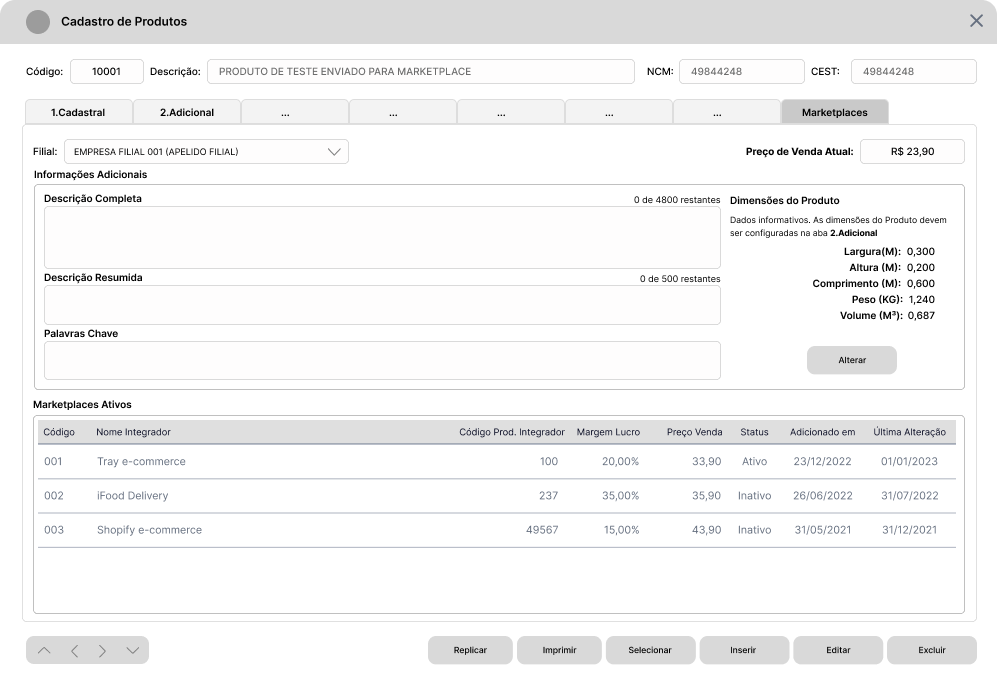
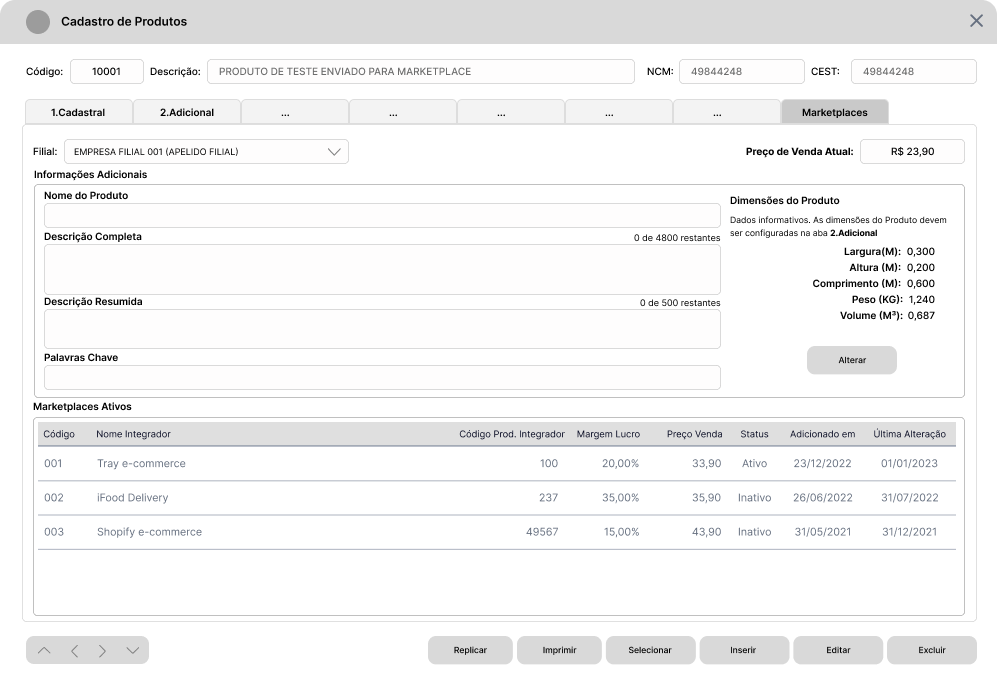
Alterações

diff --git a/Marketplaces.md b/Marketplaces.md
@@ -4,6 +4,12 @@ O presente documento objetiva descrever os requisitos básicos para implementaç
 
 ![Integração Tray](./Integration02.png)
 
+# Histórico de Mudanças de Escopo
+
+- 23.02.2023 - Kits não devem ser mais aceitos para envio ao Marketplace
+- 03.03.2023 - Suspensão do Envio de Categorias de Produtos. Um método de gerenciamento das categorias será levantado e posteriormente criado.
+- 06.03.2023 - Inclusão do campo Nome do Produto na Guia Marketplaces do Cadastro de Produtos para comportar a "descrição" ou "nome do produto" definido no Marketplace na fase de Implantação.
+
 # Roadmap :rocket:
 
 1. Implementar [Parâmetros](#parâmetros) Gerais e Específicos.
@@ -28,19 +34,19 @@ Na Tela Principal de Parâmetros do Sistema Ganso, criar uma aba **Integrações
 
 ### Parâmetros Específicos para Integrador Tray
 
-| Parâmetro           | Pai                                   | Descritivo                                                                                                                                             | Regra de Negócio                                                                                                    |
-| :------------------ | :------------------------------------ | :----------------------------------------------------------------------------------------------------------------------------------------------------- | :------------------------------------------------------------------------------------------------------------------ |
-| Autenticação        | Aba Integrações / Marketplaces / Tray | Grupo de Parâmetros para autenticação e-commerce                                                                                                       | Informações requeridas pelo Integrador Tray.                                                                        |
-| Código da Loja      | Grupo Autenticação                    | ID da Loja na Tray                                                                                                                                     | Informar o Código da Loja fornecido pela Tray.                                                                      |
-| URL de Autenticação | Grupo Autenticação                    | URL                                                                                                                                                    | Até 255 caracteres, inicialmente.                                                                                   |
-| Consumer Key        | Grupo Autenticação                    | Chave de Acesso requerida para geração do Código do Aplicativo                                                                                         | Até 255 caracteres, inicialmente.                                                                                   |
-| Consumer Secret     | Grupo Autenticação                    | Chave de Acesso requerida para geração do Código do Aplicativo                                                                                         | Até 255 caracteres, inicialmente.                                                                                   |
-| Code                | Grupo Autenticação                    | Código de Acesso do Aplicativo gerado através da Plataforma Tray                                                                                       | Até 255 caracteres, inicialmente.                                                                                   |
-| Categorias          | Aba Integrações / Marketplaces / Tray | Grupo de Parâmetros específicos para definir as Categorias do e-commerce                                                                               | Informação requerida pelo Integrador Tray.                                                                          |
-| Definir Categorias  | Categorias                            | Parâmetro para Usuário definir um Cadastro do Sistema Ganso que deve alimentar o Cadastro de **"Categorias"** da Plataforma Tray \*                    | Permitir utilizar um dos Cadastros de **Ambiente de Utilização, Seção, Grupo ou Subgrupo**                          |
-| Plano Contratado    | Aba Integrações / Marketplaces / Tray | Parâmetro para definir o Plano Contratado pelo Usuário na Plataforma Tray, correspondente ao Limite de Produtos que podem ser enviados ao Marketplace. | Utilizar uma Caixa de Combinação que lista os Planos obtidos diretamente na API da Tray, e armazenar em uma tabela. |
+| Parâmetro              | Pai                                       | Descritivo                                                                                                                                             | Regra de Negócio                                                                                                    |
+| :--------------------- | :---------------------------------------- | :----------------------------------------------------------------------------------------------------------------------------------------------------- | :------------------------------------------------------------------------------------------------------------------ |
+| Autenticação           | Aba Integrações / Marketplaces / Tray     | Grupo de Parâmetros para autenticação e-commerce                                                                                                       | Informações requeridas pelo Integrador Tray.                                                                        |
+| Código da Loja         | Grupo Autenticação                        | ID da Loja na Tray                                                                                                                                     | Informar o Código da Loja fornecido pela Tray.                                                                      |
+| URL de Autenticação    | Grupo Autenticação                        | URL                                                                                                                                                    | Até 255 caracteres, inicialmente.                                                                                   |
+| Consumer Key           | Grupo Autenticação                        | Chave de Acesso requerida para geração do Código do Aplicativo                                                                                         | Até 255 caracteres, inicialmente.                                                                                   |
+| Consumer Secret        | Grupo Autenticação                        | Chave de Acesso requerida para geração do Código do Aplicativo                                                                                         | Até 255 caracteres, inicialmente.                                                                                   |
+| Code                   | Grupo Autenticação                        | Código de Acesso do Aplicativo gerado através da Plataforma Tray                                                                                       | Até 255 caracteres, inicialmente.                                                                                   |
+| ~~Categorias~~         | ~~Aba Integrações / Marketplaces / Tray~~ | ~~Grupo de Parâmetros específicos para definir as Categorias do e-commerce~~                                                                           | ~~Informação requerida pelo Integrador Tray.~~                                                                      |
+| ~~Definir Categorias~~ | ~~Categorias~~                            | ~~Parâmetro para Usuário definir um Cadastro do Sistema Ganso que deve alimentar o Cadastro de **"Categorias"** da Plataforma Tray \*~~                | ~~Permitir utilizar um dos Cadastros de **Ambiente de Utilização, Seção, Grupo ou Subgrupo**~~                      |
+| Plano Contratado       | Aba Integrações / Marketplaces / Tray     | Parâmetro para definir o Plano Contratado pelo Usuário na Plataforma Tray, correspondente ao Limite de Produtos que podem ser enviados ao Marketplace. | Utilizar uma Caixa de Combinação que lista os Planos obtidos diretamente na API da Tray, e armazenar em uma tabela. |
 
-> :bulb: Nota: É estritamente importante relacionar o ID da Categoria Cadastrada na API de Categorias com o ID do Cadastro enviado como Categoria no Parâmetro definir Categorias. Este processo é importante para que o Produto tenha o ID correto durante o Envio Cadastral.
+> :bulb: ~~Nota: É estritamente importante relacionar o ID da Categoria Cadastrada na API de Categorias com o ID do Cadastro enviado como Categoria no Parâmetro definir Categorias. Este processo é importante para que o Produto tenha o ID correto durante o Envio Cadastral.~~
 
 Após implementações dos Parâmetros Gerais e Específicos, os elementos descritos podem ser organizados conforme o exemplo a seguir.
 
@@ -62,6 +68,7 @@ Na Tela Principal do **Cadastro de Produtos**, criar uma Aba para organizar camp
 | Campo               | Aba Marketplaces       | Preço de Venda Atual                  | Campo exibir como informativo o Preço de Venda Atual.                                                                                                                                                                                                                                                                                             |
 | Grid                | Aba Marketplaces       | Marketplaces do Produto               | Grid para exibir em quais Marketplaces o Produto está incluído. É importante exibir as informações de Código da Integração, Nome do Integrador, Código do Produto no Integrador, Margem de Lucro, Preço de Venda, Status do Marketplace, Data de Adição do Produto e Data de Última Alteração.                                                    |
 | Grupo               | Aba Marketplaces       | Informações Adicionais                | Grupo de Informações Adicionais do Produto para o Marketplace.                                                                                                                                                                                                                                                                                    |
+| Campo               | Informações Adicionais | **Nome do Produto no Marketplace**    | Campo para informar o Nome do Produto a exibir no Marketplace. Este campo também será utilizado para importar o Nome do Produto na fase de **Implantação da Integração** no Cliente, e possuir Marketplace em funcionamento antes da Ativação da Integração no Sistema Ganso.                                                                     |
 | Campo               | Informações Adicionais | Descrição detalhada do Produto        | Campo para informar uma descrição detalhada do Produto, específica para Marketplaces. Incluir um "contador de caracteres" para informar ao usuário quantos ainda restam do limite total. Ex.: 3650 restantes.                                                                                                                                     |
 | Campo               | Informações Adicionais | Descrição Resumida do Produto         | Campo para informar uma descrição Resumida do Produto, específica para Marketplaces. Incluir um "contador de caracteres" para informar ao usuário quantos ainda restam do limite total. Ex.: 300 restantes.                                                                                                                                       |
 | Campo               | Informações Adicionais | _Keywords_ ou Palavras Chave de Busca | Campo para definir quais são as palavras chave de busca para o Produto na plataforma do Marketplace. Verificar possibilidade de definir um padrão de preenchimento.                                                                                                                                                                               |
@@ -333,12 +340,12 @@ Abaixo desta _Grid_ de Dados, no rodapé da tela, incluir legenda para as açõe
 
 Durante análise da Integração possíveis automatismos foram levantandos para melhor Gestão do Recurso. Inicialmente, tem-se as seguintes automatizações.
 
-| #   | Descritivo                                  | Condições                                                                                                                                                                                                                                                                                                                                                                                                                                                                                                      |
-| :-- | :------------------------------------------ | :------------------------------------------------------------------------------------------------------------------------------------------------------------------------------------------------------------------------------------------------------------------------------------------------------------------------------------------------------------------------------------------------------------------------------------------------------------------------------------------------------------- |
-| A01 | Inclusão de Produto na Lista do Marketplace | Se Usuário Cadastrar um Novo Produto e a Integração com Marketplace está ativada, sugerir inclusão do mesmo na Lista dos Marketplaces ativos através do Próprio Cadastro de Produtos. Sugerir apenas se houver um Preço de Venda maior que zero informado no Cadastro e se o Limite definido no [Parâmetro](#parâmetros-específicos-para-integrador-tray) "Plano Contrato" não foi ultrapassado.                                                                                                               |
-| A02 | Atualização de Preço de Venda               | Se Usuário atualizar o Preço de Venda de um Produto que está contido na Lista do Marketplace, atualizar o Preço de Venda **obedecendo a Margem de Lucro aplicada ao Produto**. Se **Promoção Ativa** verificar o tipo de Preço: <br> - Se Fixo, manter o Preço considerando a margem de lucro. <br>- Se Percentual, recalular o Preço de Promoção obedecendo a Margem de Lucro e Percentual de Desconto definido na Promoção. <br> Avaliar [Regra de Negócio Geral RN04 e RN06](#regras-de-negócio-geral-lock) |
-| A03 | Atualizar Estoque de Produtos da Lista      | Se Usuário atualizar o Estoque de um Produto que está contido na Lista do Marketplace. Atualizar o Estoque Atual **obedecendo Local de Estoque e Tipo de Estoque definidos** durante o Envio do Produto.                                                                                                                                                                                                                                                                                                       |
-| A04 | Atualizar Categorias na API                 | Se Usuário cadastrar uma Nova Categoria (Amb. Utilização, Seção, Grupo ou Subgrupo), enviar a nova categoria automaticamente para API, capturar o ID criado e incluir no relacionamento de categorias.                                                                                                                                                                                                                                                                                                         |
+| #       | Descritivo                                  | Condições                                                                                                                                                                                                                                                                                                                                                                                                                                                                                                      |
+| :------ | :------------------------------------------ | :------------------------------------------------------------------------------------------------------------------------------------------------------------------------------------------------------------------------------------------------------------------------------------------------------------------------------------------------------------------------------------------------------------------------------------------------------------------------------------------------------------- |
+| A01     | Inclusão de Produto na Lista do Marketplace | Se Usuário Cadastrar um Novo Produto e a Integração com Marketplace está ativada, sugerir inclusão do mesmo na Lista dos Marketplaces ativos através do Próprio Cadastro de Produtos. Sugerir apenas se houver um Preço de Venda maior que zero informado no Cadastro e se o Limite definido no [Parâmetro](#parâmetros-específicos-para-integrador-tray) "Plano Contrato" não foi ultrapassado.                                                                                                               |
+| A02     | Atualização de Preço de Venda               | Se Usuário atualizar o Preço de Venda de um Produto que está contido na Lista do Marketplace, atualizar o Preço de Venda **obedecendo a Margem de Lucro aplicada ao Produto**. Se **Promoção Ativa** verificar o tipo de Preço: <br> - Se Fixo, manter o Preço considerando a margem de lucro. <br>- Se Percentual, recalular o Preço de Promoção obedecendo a Margem de Lucro e Percentual de Desconto definido na Promoção. <br> Avaliar [Regra de Negócio Geral RN04 e RN06](#regras-de-negócio-geral-lock) |
+| A03     | Atualizar Estoque de Produtos da Lista      | Se Usuário atualizar o Estoque de um Produto que está contido na Lista do Marketplace. Atualizar o Estoque Atual **obedecendo Local de Estoque e Tipo de Estoque definidos** durante o Envio do Produto.                                                                                                                                                                                                                                                                                                       |
+| ~~A04~~ | ~~Atualizar Categorias na API~~             | ~~Se Usuário cadastrar uma Nova Categoria (Amb. Utilização, Seção, Grupo ou Subgrupo), enviar a nova categoria automaticamente para API, capturar o ID criado e incluir no relacionamento de categorias.~~                                                                                                                                                                                                                                                                                                     |
 
 # Especificação de Dados Requeridos por Integrador
 
